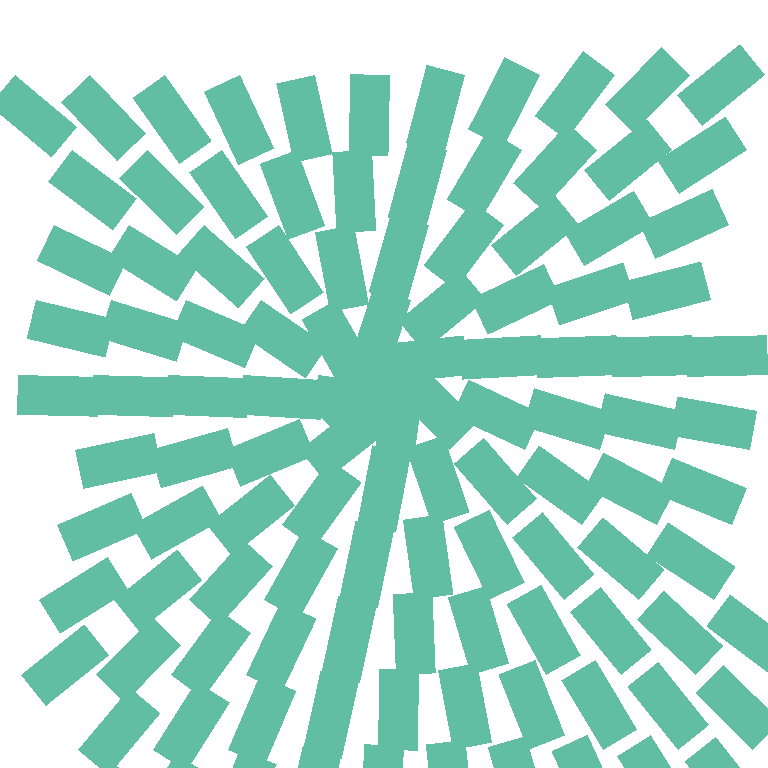
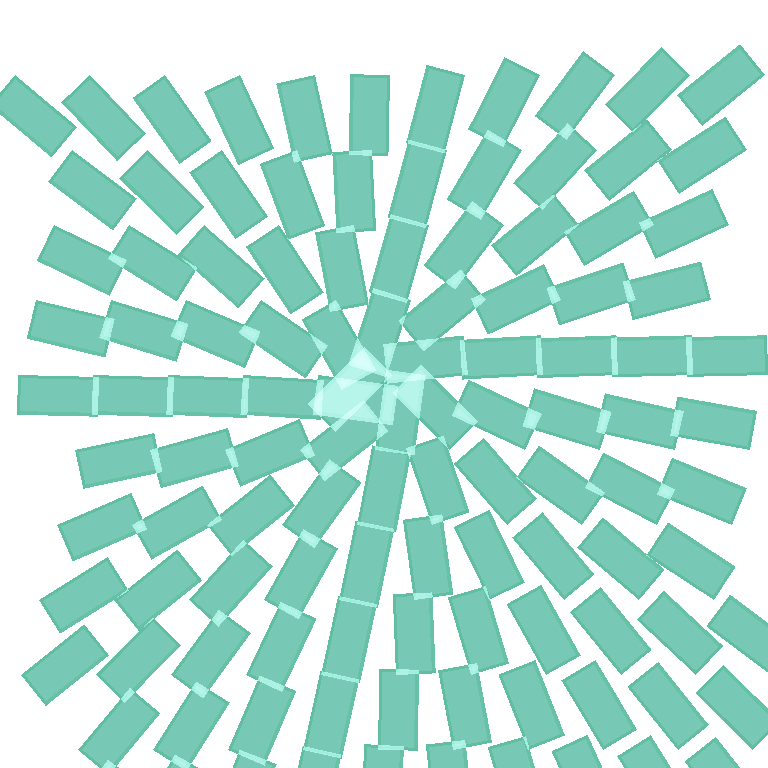
Update tests

diff --git a/package/src/renderer/__tests__/e2e/Atlas.spec.tsx b/package/src/renderer/__tests__/e2e/Atlas.spec.tsx
@@ -4,6 +4,8 @@ import { checkImage, docPath } from "../../../__tests__/setup";
 import { importSkia, surface } from "../setup";
 import { Atlas, Group, Rect } from "../../components";
 
+import { TextureAsset } from "./setup";
+
 describe("Atlas", () => {
   it("should read the RSXform properties", async () => {
     const result = await surface.eval((Skia) => {
@@ -48,18 +50,17 @@ describe("Atlas", () => {
   });
   it("Simple Atlas", async () => {
     const { Skia } = importSkia();
-    const size = 75;
-    const texSurface = Skia.Surface.MakeOffscreen(size, size)!;
-    const texCanvas = texSurface.getCanvas();
-    texCanvas.drawColor(Skia.Color("red"));
-    const image = texSurface.makeImageSnapshot();
+    const image = new TextureAsset(Skia, (Sk) => {
+      const texSurface = Sk.Surface.MakeOffscreen(75, 75)!;
+      const texCanvas = texSurface.getCanvas();
+      texCanvas.drawColor(Sk.Color("red"));
+      return texSurface.makeImageSnapshot();
+    });
+    const tex = surface.OS === "node" ? image.instance : image;
     const img = await surface.draw(
       <Atlas
-        image={image}
-        sprites={[
-          Skia.XYWHRect(0, 0, size, size),
-          Skia.XYWHRect(0, 0, size, size),
-        ]}
+        image={tex}
+        sprites={[Skia.XYWHRect(0, 0, 75, 75), Skia.XYWHRect(0, 0, 75, 75)]}
         transforms={[Skia.RSXform(0.5, 0, 0, 0), Skia.RSXform(0, 0.5, 50, 50)]}
       />
     );
@@ -193,7 +194,7 @@ describe("Atlas", () => {
         colors={colors}
       />
     );
-    checkImage(img, docPath("atlas/colors.png"), { overwrite: true });
+    checkImage(img, docPath("atlas/colors.png"));
   });
   it("should use the colors and blend mode property properly", async () => {
     const { Skia, rect, drawAsImage } = importSkia();
@@ -236,8 +237,6 @@ describe("Atlas", () => {
         blendMode="screen"
       />
     );
-    checkImage(img, docPath("atlas/colors-and-blend-mode.png"), {
-      overwrite: true,
-    });
+    checkImage(img, docPath("atlas/colors-and-blend-mode.png"));
   });
 });

diff --git a/package/src/renderer/__tests__/setup.tsx b/package/src/renderer/__tests__/setup.tsx
@@ -18,7 +18,7 @@ import { SkiaRoot } from "../Reconciler";
 import { JsiDrawingContext } from "../../dom/types/DrawingContext";
 import { LoadSkiaWeb } from "../../web/LoadSkiaWeb";
 
-import type { SkiaObject } from "./e2e/setup";
+import { SkiaObject } from "./e2e/setup";
 
 jest.setTimeout(180 * 1000);
 
@@ -231,7 +231,14 @@ const serializeSkOjects = (obj: any): any => {
   } else if (Array.isArray(obj)) {
     return obj.map((item) => serializeSkOjects(item));
   } else if (obj && typeof obj === "object" && "__typename__" in obj) {
-    if (obj.__typename__ === "Point") {
+    if (obj instanceof SkiaObject) {
+      const skObj: SkiaObject<EvalContext, any> = obj;
+      return {
+        __typename__: "SkiaObject",
+        source: skObj.source,
+        context: skObj.context,
+      };
+    } else if (obj.__typename__ === "Point") {
       return { __typename__: "Point", x: obj.x, y: obj.y };
     } else if (obj.__typename__ === "Paint") {
       return { __typename__: "Paint", color: Array.from(obj.getColor()) };
@@ -286,13 +293,6 @@ const serializeSkOjects = (obj: any): any => {
         __typename__: "SVG",
         source: obj.source(),
       };
-    } else if (obj.__typename__ === "Paragraph") {
-      const skObj: SkiaObject<EvalContext, any> = obj;
-      return {
-        __typename__: "SkiaObject",
-        source: skObj.source,
-        context: skObj.context,
-      };
     } else if (obj.__typename__ === "RSXform") {
       return {
         __typename__: "RSXform",
@@ -302,13 +302,6 @@ const serializeSkOjects = (obj: any): any => {
         ty: obj.ty,
       };
     }
-  } else if (typeof obj === "object") {
-    const keys = Object.keys(obj);
-    const res: any = {};
-    keys.forEach((key) => {
-      res[key] = serializeSkOjects(obj[key]);
-    });
-    return res;
   }
   return obj;
 };

diff --git a/package/src/renderer/__tests__/e2e/setup/SkiaObject.ts b/package/src/renderer/__tests__/e2e/setup/SkiaObject.ts
@@ -6,7 +6,7 @@ export abstract class SkiaObject<
   R extends SkJSIInstance<string>
 > {
   protected _source: string;
-  protected instance: R;
+  protected _instance: R;
 
   constructor(
     Skia: Skia,
@@ -14,7 +14,7 @@ export abstract class SkiaObject<
     public _context: Ctx
   ) {
     this._source = fn.toString();
-    this.instance = fn(Skia, _context);
+    this._instance = fn(Skia, _context);
   }
 
   get source() {
@@ -23,5 +23,9 @@ export abstract class SkiaObject<
 
   get context() {
     return this._context;
+  }
+
+  get instance() {
+    return this._instance;
   }
 }

diff --git a/package/src/renderer/Offscreen.tsx b/package/src/renderer/Offscreen.tsx
@@ -30,6 +30,7 @@ export const drawAsImageFromPicture = (picture: SkPicture, size: SkSize) => {
     size.height * pd
   )!;
   const canvas = surface.getCanvas();
+  canvas.scale(pd, pd);
   canvas.drawPicture(picture);
   surface.flush();
   return surface.makeImageSnapshot();

diff --git a/package/src/renderer/__tests__/e2e/setup/index.ts b/package/src/renderer/__tests__/e2e/setup/index.ts
@@ -1,3 +1,4 @@
 export * from "./Paragraph";
 export * from "./SVG";
 export * from "./SkiaObject";
+export * from "./Texture";

diff --git a/package/cpp/rnskia/dom/nodes/JsiAtlasNode.h b/package/cpp/rnskia/dom/nodes/JsiAtlasNode.h
@@ -23,11 +23,12 @@ protected:
       const auto transforms = _rsxFormsProp->getDerivedValue();
       const auto colors = _colorsProp->isSet() ? _colorsProp->getDerivedValue()
                                                : nullptr;
+	  const auto blendMode = _blendModeProp->isSet() ? *_blendModeProp->getDerivedValue() : SkBlendMode::kDstOver;
+	  auto paint = *context->getPaint();
       SkSamplingOptions sampling;
-      SkPaint paint;
       context->getCanvas()->drawAtlas(
           image.get(), transforms->data(), sprites->data(), colors == nullptr ? nullptr: colors->data(),
-          sprites->size(), SkBlendMode::kDstOver, sampling, nullptr, &paint);
+          sprites->size(), blendMode, sampling, nullptr, &paint);
     }
   }
 
@@ -37,6 +38,7 @@ protected:
     _rsxFormsProp = container->defineProperty<RSXFormsProp>("transforms");
     _imageProp = container->defineProperty<ImageProp>("image");
     _colorsProp = container->defineProperty<ColorsProp>("colors");
+	_blendModeProp = container->defineProperty<BlendModeProp>("blendMode");
 
     _rectsProp->require();
     _rsxFormsProp->require();
@@ -48,6 +50,7 @@ private:
   RectsProp *_rectsProp;
   RSXFormsProp *_rsxFormsProp;
   ColorsProp *_colorsProp;
+  BlendModeProp *_blendModeProp;
 };
 
 } // namespace RNSkia
